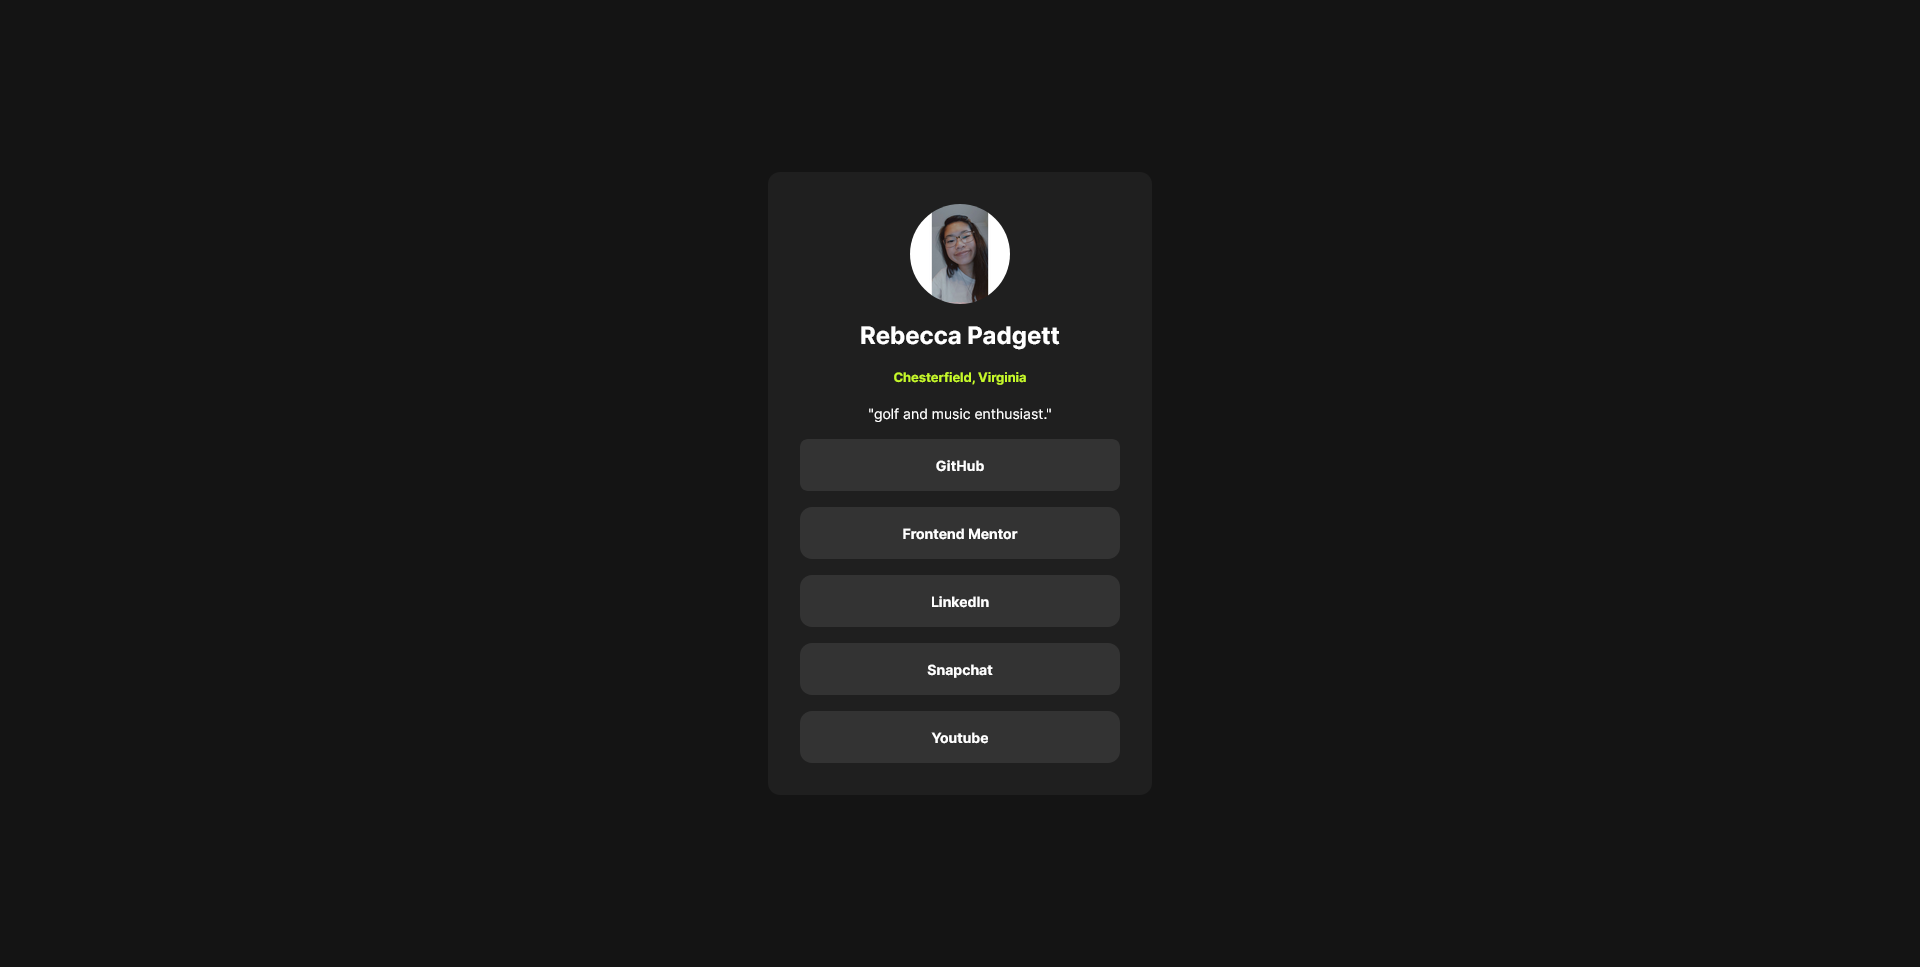
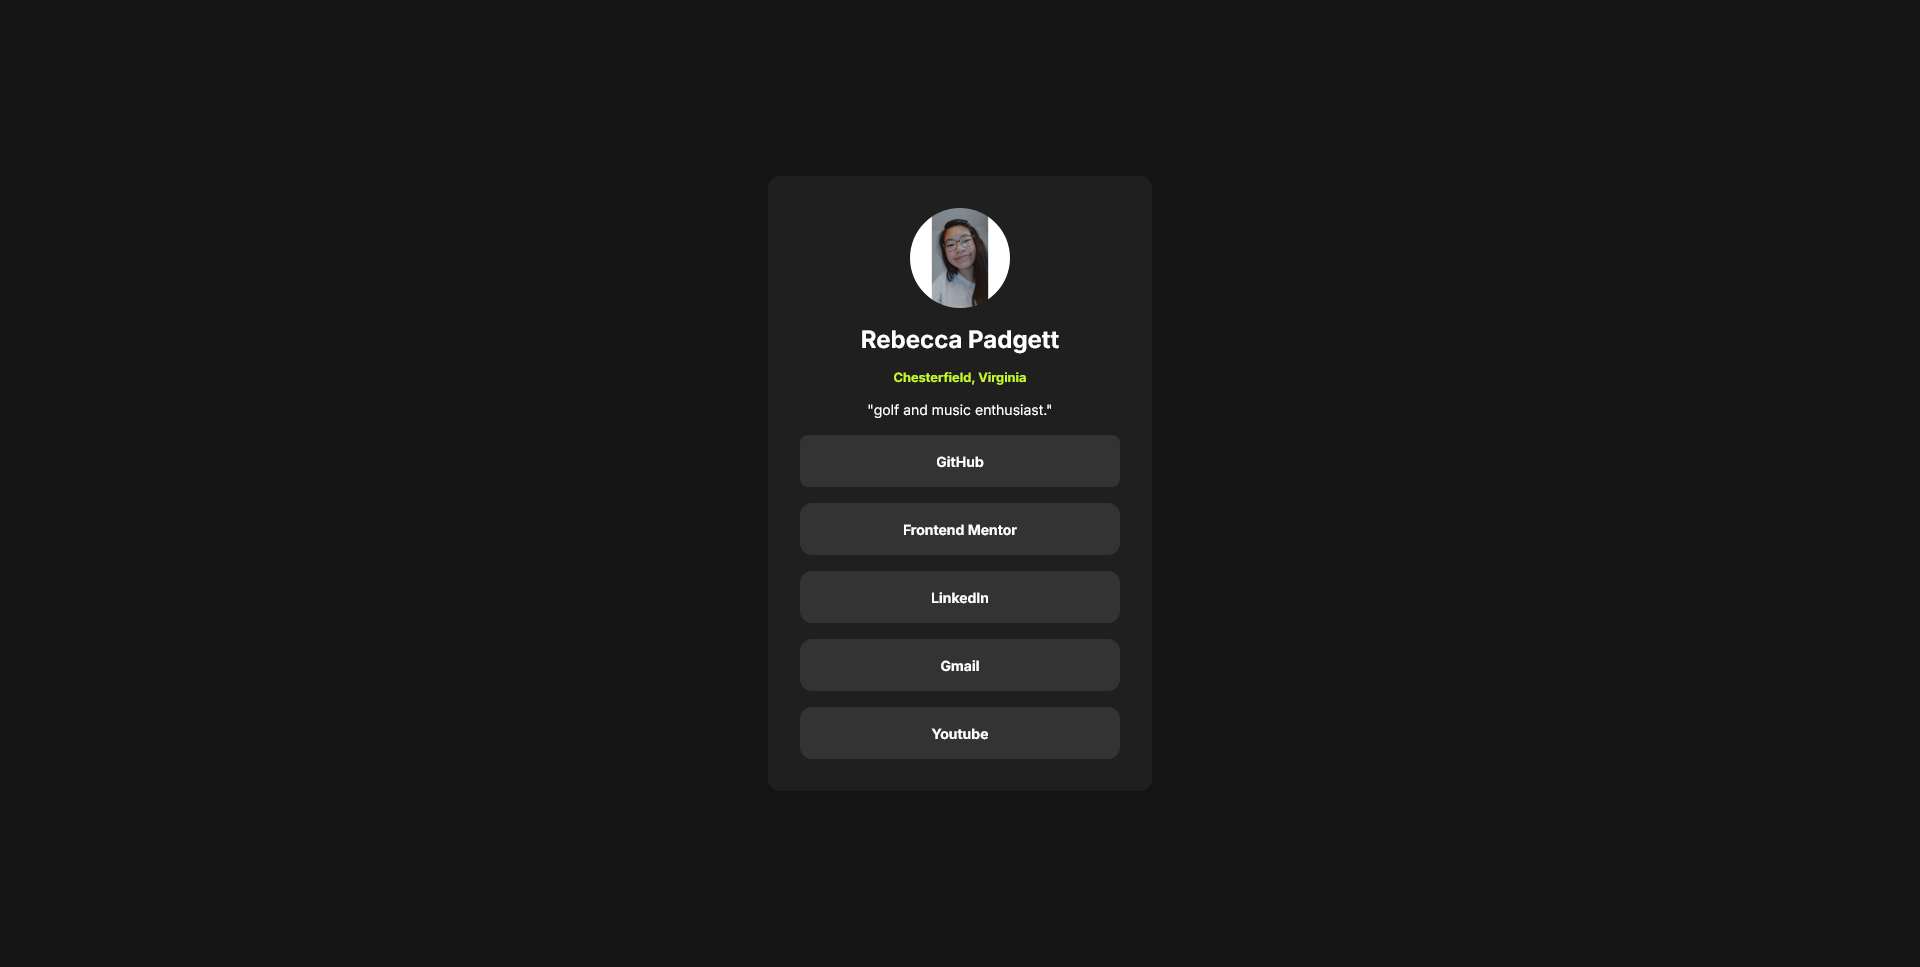
Update README.md and screenshot image

diff --git a/README.md b/README.md
@@ -58,10 +58,8 @@ Don't be pixel perfect when building out your projects.
   <a href="https://github.com/bccpadge">
     <img src="https://img.shields.io/badge/Github-9757e6?style=for-the-badge&logo=github&logoColor=white">
  </a>
-  <a href="https://www.linkedin.com/in/rebecca-padgett23">
+  <a href="https://www.linkedin.com/in/rebeccapadgett121">
     <img src="https://img.shields.io/badge/Linkedin-004182?style=for-the-badge&logo=linkedin&logoColor=white">
   </a>
-  <a href="https://t.snapchat.com/bNUplk4b">
-    <img src="https://img.shields.io/badge/Snapchat-FFFC00?style=for-the-badge&logo=snapchat&logoColor=white">
-  </a>
+
 </p>
